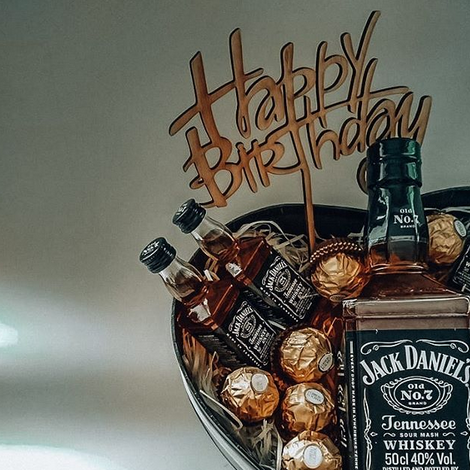
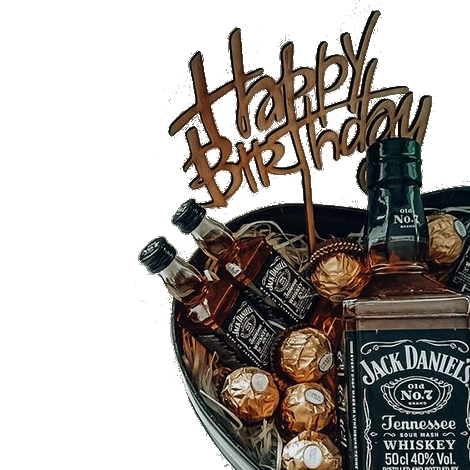
add images with transparent background and create button on filter-block and update button for item(result-sort)

diff --git a/catalog.html b/catalog.html
@@ -60,18 +60,19 @@
               <input type="checkbox" name="" id=""><label for="">Чорний</label>
             </li>
           </ul>
+          <button class="btn">Показати</button>
         </div>
         <div class="result-sort">
           <div class="result-sort__items">
             <div class="item">
               <div class="item__img-box">
-                <img class="item__img" src="img/box1.jpg" alt="">
+                <a href=""><img class="item__img" src="img/box1.jpg" alt=""></a>
                 <div class="item__price">
                   <p class="item__price-text">649<span>грн</span></p>
                 </div>
               </div>
               <h3 class="item__title">Мужикам бухло</h3>
-              <button class="btn">Додати</button>
+              <button class="btn">Купити</button>
 
             </div>
             <div class="item">
@@ -82,7 +83,7 @@
                 </div>
               </div>
               <h3 class="item__title">Мужикам бухло і тьолок</h3>
-              <button class="btn">Додати</button>
+              <button class="btn">Купити</button>
 
             </div>
             <div class="item">
@@ -93,18 +94,18 @@
                 </div>
               </div>
               <h3 class="item__title">Мужикам бухло</h3>
-              <button class="btn">Додати</button>
+              <button class="btn">Купити</button>
 
             </div>
             <div class="item">
               <div class="item__img-box">
-                <img class="item__img" src="img/box4.jpg" alt="">
+                <img class="item__img" src="img/box4.png" alt="">
                 <div class="item__price">
                   <p class="item__price-text">649<span>грн</span></p>
                 </div>
               </div>
               <h3 class="item__title">Мужикам бухло</h3>
-              <button class="btn">Додати</button>
+              <button class="btn">Купити</button>
 
             </div>
             <div class="item">
@@ -115,7 +116,7 @@
                 </div>
               </div>
               <h3 class="item__title">Мужикам бухло</h3>
-              <button class="btn">Додати</button>
+              <button class="btn">Купити</button>
 
             </div>
             <div class="item">
@@ -126,7 +127,7 @@
                 </div>
               </div>
               <h3 class="item__title">Мужикам бухло</h3>
-              <button class="btn">Додати</button>
+              <button class="btn">Купити</button>
 
             </div>
             <div class="item">
@@ -137,7 +138,7 @@
                 </div>
               </div>
               <h3 class="item__title">Мужикам бухло</h3>
-              <button class="btn">Додати</button>
+              <button class="btn">Купити</button>
 
             </div>
             <div class="item">
@@ -148,29 +149,29 @@
                 </div>
               </div>
               <h3 class="item__title">Мужикам бухло</h3>
-              <button class="btn">Додати</button>
+              <button class="btn">Купити</button>
 
             </div>
             <div class="item">
               <div class="item__img-box">
-                <img class="item__img" src="img/box9.jpg" alt="">
+                <img class="item__img" src="img/box9.png" alt="">
                 <div class="item__price">
                   <p class="item__price-text">649<span>грн</span></p>
                 </div>
               </div>
               <h3 class="item__title">Мужикам бухло</h3>
-              <button class="btn">Додати</button>
+              <button class="btn">Купити</button>
 
             </div>
             <div class="item">
               <div class="item__img-box">
-                <img class="item__img" src="img/box10.jpg" alt="">
+                <img class="item__img" src="img/box10.png" alt="">
                 <div class="item__price">
                   <p class="item__price-text">649<span>грн</span></p>
                 </div>
               </div>
               <h3 class="item__title">Мужикам бухло</h3>
-              <button class="btn">Додати</button>
+              <button class="btn">Купити</button>
 
             </div>
             <div class="item">
@@ -181,7 +182,7 @@
                 </div>
               </div>
               <h3 class="item__title">Мужикам бухло</h3>
-              <button class="btn">Додати</button>
+              <button class="btn">Купити</button>
             </div>
             <div class="item">
               <div class="item__img-box">
@@ -191,7 +192,7 @@
                 </div>
               </div>
               <h3 class="item__title">Мужикам бухло</h3>
-              <button class="btn">Додати</button>
+              <button class="btn">Купити</button>
             </div>
           </div>
         </div>

diff --git a/css/catalog.css b/css/catalog.css
@@ -3,13 +3,15 @@
 }
 .filter{
     flex: 1;
+    height: 900px;
+    background-color: #fff;
     margin-right: 50px;
     position: sticky;
-    top: 10px;
+    top: 30px;
     left: 0px;
-}
-.filter__list{
-
+    display: flex;
+    flex-direction: column;
+    align-items: center;
 }
 .filter__list-item:first-child{
     margin-top: 0;
@@ -37,9 +39,12 @@
     flex-direction: column;
     justify-content: center;
     align-items: center;
+    transition: .5s ease;
+    background-color: #fff;
 }
 .item:hover{
-    box-shadow: 0px 0px 20px darkcyan;
+    box-shadow: 10px 8px 20px #003a00, -10px 10px 20px #003a00;
+    transform: translateY(-5px);
 }
 .item__title{
     text-align: center;
@@ -54,7 +59,7 @@
     bottom: 5px;
     left: 5px;
     color: #fff;
-    background: linear-gradient(135deg, #00e5ff, #1111aa);
+    background-color: #617a64;
     display: flex;
     align-items: center;
     justify-content: center;
@@ -62,7 +67,7 @@
     height: 100px;
     rotate: 45deg;
     font-size: 22px;
-    box-shadow: 0px 0px 20px rgba(46,229,157,.4);
+    font-weight: 700;
 }
 .item__price-text{
     rotate: -45deg;
@@ -72,39 +77,21 @@
     margin-bottom: -5px;
 }
 .btn {
-	position: relative;
-	height: 50px;
 	line-height: 40px;
-	padding: 0 30px 0 50px;
+	padding: 2px 35px;
 	margin: 0 0 20px;
-	background: linear-gradient(-135deg, #00E5FE, #4463FE);
-	border-width: 0;
-	border-radius: 50px;
-	font-family: 'Montserrat Alternates', sans-serif;
-	font-size: 18px;
-	color: white;
-	outline: none;
-	cursor: pointer;
-}
-.btn:before {
-	content: "+";
-	position: absolute;
-	left: 5px;
-	top: 7px;
-	color: white;
-	width: 36px;
-    height: 36px;
-    display: flex;
-    justify-content: center;
-    align-items: center;
-	border-radius: 50%;
-	background: transparent;
-	transition: .3s ease-in-out;
+	background-color: transparent;
+    font-size: 20px;
+    color: #003a00;
+    transition: .3s ease-in-out;
+    font-family: 'Montserrat', sans-serif;
+    cursor: pointer;
+    border: 2px solid #003a00;
+    box-shadow: 0 0 10px #003a00;
 }
 .btn:hover{
-	background: linear-gradient(-45deg, #4463FE, #00E5FE);
-}
-.btn:hover:before {
-	background: white;
-	color: #24D8F7;
+    border: 2px solid transparent;
+    color: #fff;
+    box-shadow: 0 0 0 transparent;
+    background-color: #e3b347;
 }

diff --git a/index.html b/index.html
@@ -35,7 +35,7 @@
         <div class="products__items">
           <div class="product__item">
             <div class="product__item-block--img">
-              <img class="product__item--img" src="img/box4.jpg" alt="">
+              <img class="product__item--img" src="img/box9.png" alt="">
               <div class="product__item--details">
                 <ul class="product__item--details-list">Вміст:
                   <li>Коробка в формі серця 20х30</li>
@@ -89,7 +89,7 @@
           </div>
           <div class="product__item">
             <div class="product__item-block--img">
-              <img class="product__item--img" src="img/box10.jpg" alt="">
+              <img class="product__item--img" src="img/box10.png" alt="">
               <div class="product__item--details">
                 <ul class="product__item--details-list">Вміст:
                   <li>Коробка в формі серця 20х30</li>

diff --git a/css/index.css b/css/index.css
@@ -13,6 +13,9 @@
     padding: 2vw;
     margin: 0px auto 20px;
 }
+.header{
+    background-color: #fff;
+}
 .nav{
     height: 10vh;
     display: flex;
@@ -138,6 +141,7 @@
     border-bottom: 2px solid grey;
     border-top: 2px solid grey;
     box-shadow: 0px 0px 10px rgb(58, 58, 58);
+    background-color: #fff;
 }
 .product__item-block--img{
     position: relative;

diff --git a/css/normalize.css b/css/normalize.css
@@ -29,7 +29,16 @@ time, mark, audio, video {
 body{
     font-size: 18px;
     font-family: 'Montserrat', sans-serif;
+    letter-spacing: 1px;
     line-height: 30px;
+    background: url('../img/bg.jpg');
+}
+button{
+    font-family: inherit;
+    letter-spacing: inherit;
+    line-height: inherit;
+    outline: 0;
+    border: 0;
 }
 ul{
     list-style-type: none;
